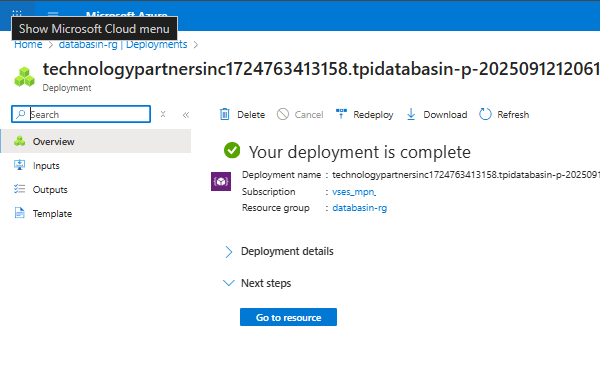
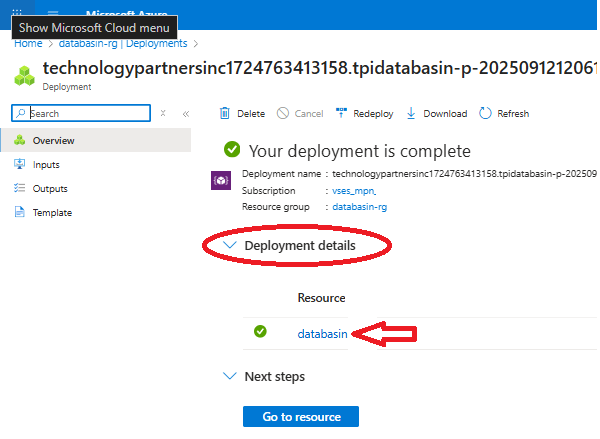
doc updates

diff --git a/docs/databasin_post_install_for_azure.md b/docs/databasin_post_install_for_azure.md
@@ -1,92 +1,57 @@
 # Overview
 
-This guide details the initial configuration that need to be completed after installing the managed Azure Marketplace offering: **Databasin -Data Automation for Healthcare and AI**
+This guide details the configuration steps that need to be completed after installing the managed Azure Marketplace offering: **Databasin -Data Automation for Healthcare and AI**
 
-## Post-Installation Steps:
+## Prerequisites
+You must have the information below obtained from the "databasinEndpoint" output value from your Databasin Deployment. If you already have these values, skip to the [DNS Configuration](#dns-configuration) section of this document.
+1. ***domain_name***: Dynamically created domain name for the Databasin environment (i.e. calmsmoke-e7a7bdc1.centralus.azurecontainerapps.io )
+1. ***domain_ip_address***: The static IP address associated to the Databasin environment in Azure (i.e. 172.16.0.112 )
+1. ***databasin_login_url***: The URL to login to Databasin (i.e. https://databasin-ui.calmsmoke-e7a7bdc1.centralus.azurecontainerapps.io)
 
-### Setup DNS / Forwarding
+## Retrive Deployment Output values
+1. Navigate to the Databasin Managed Application overview page in the Azure Portal by searching for and selecting the Databasin application instance.
+1. From the menu on the left of the Managed Application **Overview** blade, select the **Settings** -> **Parameters and Outputs**  and scroll to the **outputs** section to copy the value of the **databasinEndpoint** output.
+   
+   ![](./install/media/image9.png)
+  
+   Example Output:
+   ``` 
+   {  "domain_name": "calmsmoke-e7a7bdc1.centralus.azurecontainerapps.io",  "domain_ip_address": "172.16.0.112",  "databasin_login_url": "https://databasin-ui.calmsmoke-e7a7bdc1.centralus.azurecontainerapps.io"  }
+   ```
+   You will use these values in the following steps
 
-Databasin's API and UI, by default, are installed within a private Azure
-Container Apps Environment (ACA). The installation does expose a VM for
-you to log into (Instructions directly below), but that is only used for
-initial configuration / troubleshooting. To enable all users access to
-the Databasin UI, you must setup forwarding from your on-prem/cloud
-network, into the ACA environment.
 
-1.  Log into the Azure portal and find your Databasin installation.
+## DNS Configuration
+Configure your internal environment DNS infrastructure to route traffic to Databasin by creating a DNS zone and Host A records to resolve to the Databasin application in Azure
 
-2.  At the top right-hand corner, you will find a "databasin" resource
-    group. Click that to enter the resource group. In this group, you
-    will find all the installed components of Databasin.
 
-3.  One of the components will be a "Container Apps Environment". Click
-    that to enter.
+### DNS Zone Creation
+Create a DNS Zone using the **domain_name** value (i.e. calmsmoke-e7a7bdc1.centralus.azurecontainerapps.io )
+### DNS Records Creation
+Select you DNS Zone (i.e. calmsmoke-e7a7bdc1.centralus.azurecontainerapps.io ) to add the following record sets:
+- Root:
+    - Name: "@"
+    - Value: enter the value of **domain_ip_address** (i.e. 172.16.0.112 )
+    - TTL: 3600
+- Wildcard:
+    - Name: "*"
+    - Value: enter the value of **domain_ip_address** (i.e. 172.16.0.112 )
+    - TTL: 3600
 
-4.  In this view, please copy/note the "Static IP". You will need this.
-
-5.  Below, you will find both the UI and API containers. Typically, they
-    are named "databasin-api" and "databasin-ui". You only need to be
-    concerned with the "UI" container. Please click into the
-    "databasin-ui" container.
-
-6.  Azure will generate an "Application URL" you will find at the top
-    left-hand corner. The ACA environment and its components will be
-    under this URL. Please note the "databasin-ui" at the start of the
-    URL. That is specific to this container. For example, the API
-    container would start with "databasin-api", but the rest of the URL
-    is static/specific to your environment. You will need to copy this.
-
-    a.  Example: If your UI has the following URL:
-        https://databasin-ui.agreeablemoss-ee3bea84.northcentralus.azurecontainerapps.io,
-        then you will need to copy
-        "agreeablemoss-ee3bea84.northcentralus.azurecontainerapps.io"
-        for the routing.
-
-7.  At this point, you will need to set up routing, with a wildcard
-    cert, from your on-prem network to the ACA env.
-
-    a.  Example:
-
-        i.  DNS Zone:
-            agreeablemoss-ee3bea84.northcentralus.azurecontainerapps.io
-
-        ii. Name \* (Wildcard)
-
-        iii. Type A
-
-        iv. IP =\> (The Static IP from point 4)
-
-        v.  TTL =\> 3600
 
 ## Databasin Permissions Consent
 
-1.  Open Microsoft Edge browser and navigate to the **databasin_url**
-    copied in the previous step
-    (databasin-ui.\<uniquename\>.azurecontainerapps.io) and you should
-    see the **Databasin** login page:\
+1. Open Microsoft Edge/Chrome browser and navigate to the **databasin_login_url** and you should see the **Databasin** login page.
     
     ![](./post_install/media/image1.png)
 
-2.  Sign in with the **Installer Email Address** previously supplied and **Consent on behalf of your organization** to approve the     arequired **Databasin** permissions
+2.  Sign-in with the **Installer Email Address** previously supplied and **Consent on behalf of your organization** to approve the required **Databasin** permissions
 
     ![](./post_install/media/image2.png)
 
 ## Configuring VNet Peering & DNS
 
-1.  Set up **VNet Peering** to enable communication across different VNets.
-
-2.  Navigate to **Azure DNS Zone**.
-
-3.  Add an **A record** pointing to the Databasin service's IP or custom
-    domain.
-
-4.  Verify DNS resolution and access.
-
-5.  Create a DNS A-record for
-    databasin-ui.uniquename.region.azurecontainerapp.io within your hub
-    DNS zone, so users coming from your VPN/On-prem network can resolve
-    this DNS name need to find the IP address assigned to the container
-    app managed resource group and use that to create the entry.
+1.  Set-up **VNet Peering** to enable communication across different VNets.
 
 ##  Complete Project Configuration
 
@@ -97,10 +62,7 @@ network, into the ACA environment.
 
 - If encountering **connectivity issues**:
 
-  - Check **VNet and firewall settings**.
-
-  - Verify that PostgreSQL is accepting connections from the correct
-    subnet.
+- Check **VNet and firewall settings**.
 
 - Logs can be reviewed in **Azure Monitor** and **Container App Logs**.
 

diff --git a/docs/databasin_install_for_azure.md b/docs/databasin_install_for_azure.md
@@ -87,23 +87,22 @@ You may leave the new virtual network settings defaulted or select **edit** to m
 ![](./install/media/image5.png)
 
 
-## Deployment
-### 
-Wait for the installation to complete (this will take several minutes).
+### Copy Deployment Outputs to be used for Post-Installation Configuration
+1. Wait for the installation to be completed (this will take several minutes). Once the deployment is complete, expand the **Deployment details** and select the Resource link (i.e. databasin) for the Managed application.
 
-![](./install/media/image6.png)
+   ![](./install/media/image6.png)
 
-## Retrieve the Databasin URL from the Deployment Output values
-###
-Expand the **Deployment details** and select the Resource link (i.e. databasin) for the Managed application.
- 
-![](./install/media/image7.png)
 
-### 
-Select the **Settings** -> **Parameters and Outputs** from the menu on the left of the Managed application and scroll to the **outputs** section. Copy the value of the **databasinEndpoint** and save this URL.
+1. From the Managed Application **Overview** blade, select the **Settings** -> **Parameters and Outputs** from the menu on the left and scroll to the **outputs** section to copy the value of the **databasinEndpoint** output.
+   
+   ![](./install/media/image9.png)
+  
+   Example Output:
+   ``` 
+   {  "domain_name": "calmsmoke-e7a7bdc1.centralus.azurecontainerapps.io",  "domain_ip_address": "172.16.0.112",  "databasin_login_url": "https://databasin-ui.calmsmoke-e7a7bdc1.centralus.azurecontainerapps.io"  }
+   ```
+   You will use these values in the Post-Installation Steps
 
-![](./install/media/image8.png)
-
-###
+## Post-Installation
 Complete the [Post-installation Steps](https://github.com/tpidai/databasin/blob/main/docs/databasin_post_install_for_azure.md) to configure Databasin.
 
